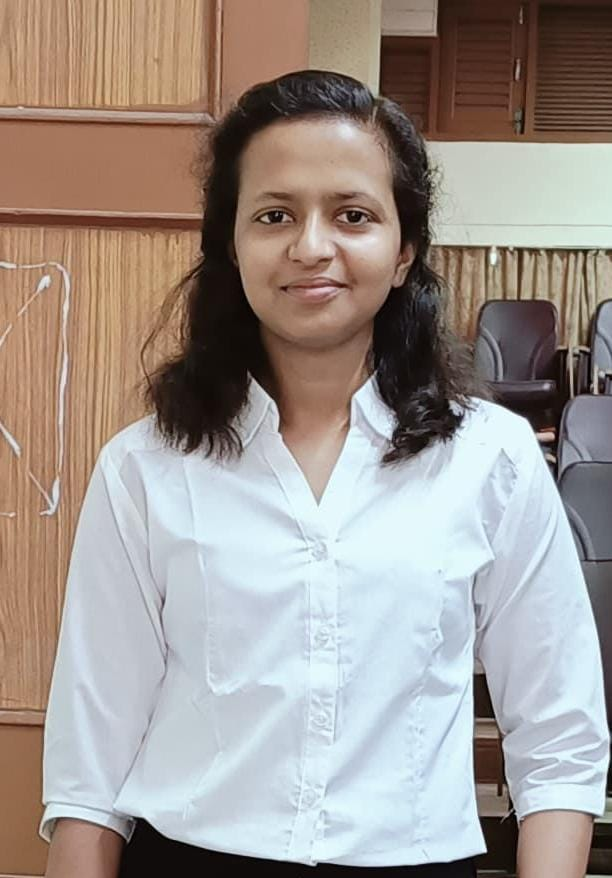
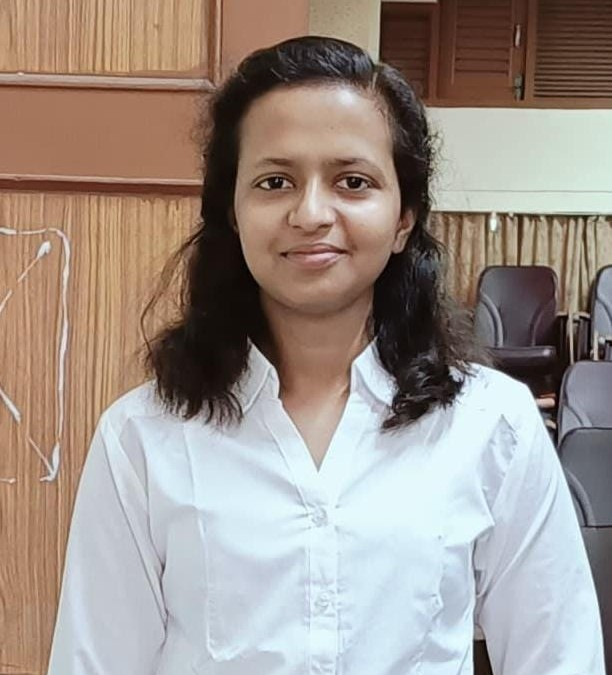
updated team member's photos

diff --git a/src/data/teams.ts b/src/data/teams.ts
@@ -134,7 +134,7 @@ export const teams: TeamData[] = [
       {
         name: "Ashutosh Singh",
         position: "Sponsorship Team (2nd Year)",
-        image: "./images/teams/general.jpg",
+        image: "./images/teams/ashutosh.jpeg",
         social: {
           linkedin: "",
           email: "",
@@ -176,7 +176,7 @@ export const teams: TeamData[] = [
       {
         name: "Pratham Patel",
         position: "Event Team (3rd Year)",
-        image: "./images/teams/pratham.jpg",
+        image: "./images/teams/general.jpg",
         social: {
           linkedin: "",
           email: "",
@@ -194,7 +194,7 @@ export const teams: TeamData[] = [
       {
         name: "Darshan Parmar",
         position: "Event Team (2nd Year)",
-        image: "./images/teams/general.jpg",
+        image: "./images/teams/darshan.jpeg",
         social: {
           linkedin: "",
           email: "",
@@ -272,7 +272,7 @@ export const teams: TeamData[] = [
       {
         name: "Ritam Kundu",
         position: "Travel and Logistics Team (2nd Year)",
-        image: "./images/teams/general.jpg",
+        image: "./images/teams/ritam.jpeg",
         social: {
           linkedin: "",
           email: "",
@@ -305,7 +305,7 @@ export const teams: TeamData[] = [
       {
         name: "Devika Rajesh",
         position: "Cultural Team (2nd Year)",
-        image: "./images/teams/general.jpg",
+        image: "./images/teams/devika.jpeg",
         social: {
           linkedin: "",
           email: "",
@@ -356,7 +356,7 @@ export const teams: TeamData[] = [
       {
         name: "Bhumika Mehra",
         position: "Design and Content Team (2nd Year)",
-        image: "./images/teams/general.jpg",
+        image: "./images/teams/bhumika.jpeg",
         social: {
           linkedin: "",
           email: "",
@@ -416,7 +416,7 @@ export const teams: TeamData[] = [
       {
         name: "Anchal Chaudhury",
         position: "Publicity and Social Media Team (2nd Year)",
-        image: "./images/teams/anch.jpeg",
+        image: "./images/teams/anchal.jpeg",
         social: {
           linkedin: "",
           email: "",
@@ -518,7 +518,7 @@ export const teams: TeamData[] = [
       {
         name: "Rahul Kumar",
         position: "Web Development Team (2nd Year)",
-        image: "./images/teams/general.jpg",
+        image: "./images/teams/rahul.jpeg",
         social: {
           linkedin: "",
           email: "",
@@ -527,7 +527,7 @@ export const teams: TeamData[] = [
       {
         name: "Anjala",
         position: "Web Development Team (2nd Year)",
-        image: "./images/teams/general.jpg",
+        image: "./images/teams/anjala.jpeg",
         social: {
           linkedin: "",
           email: "",
